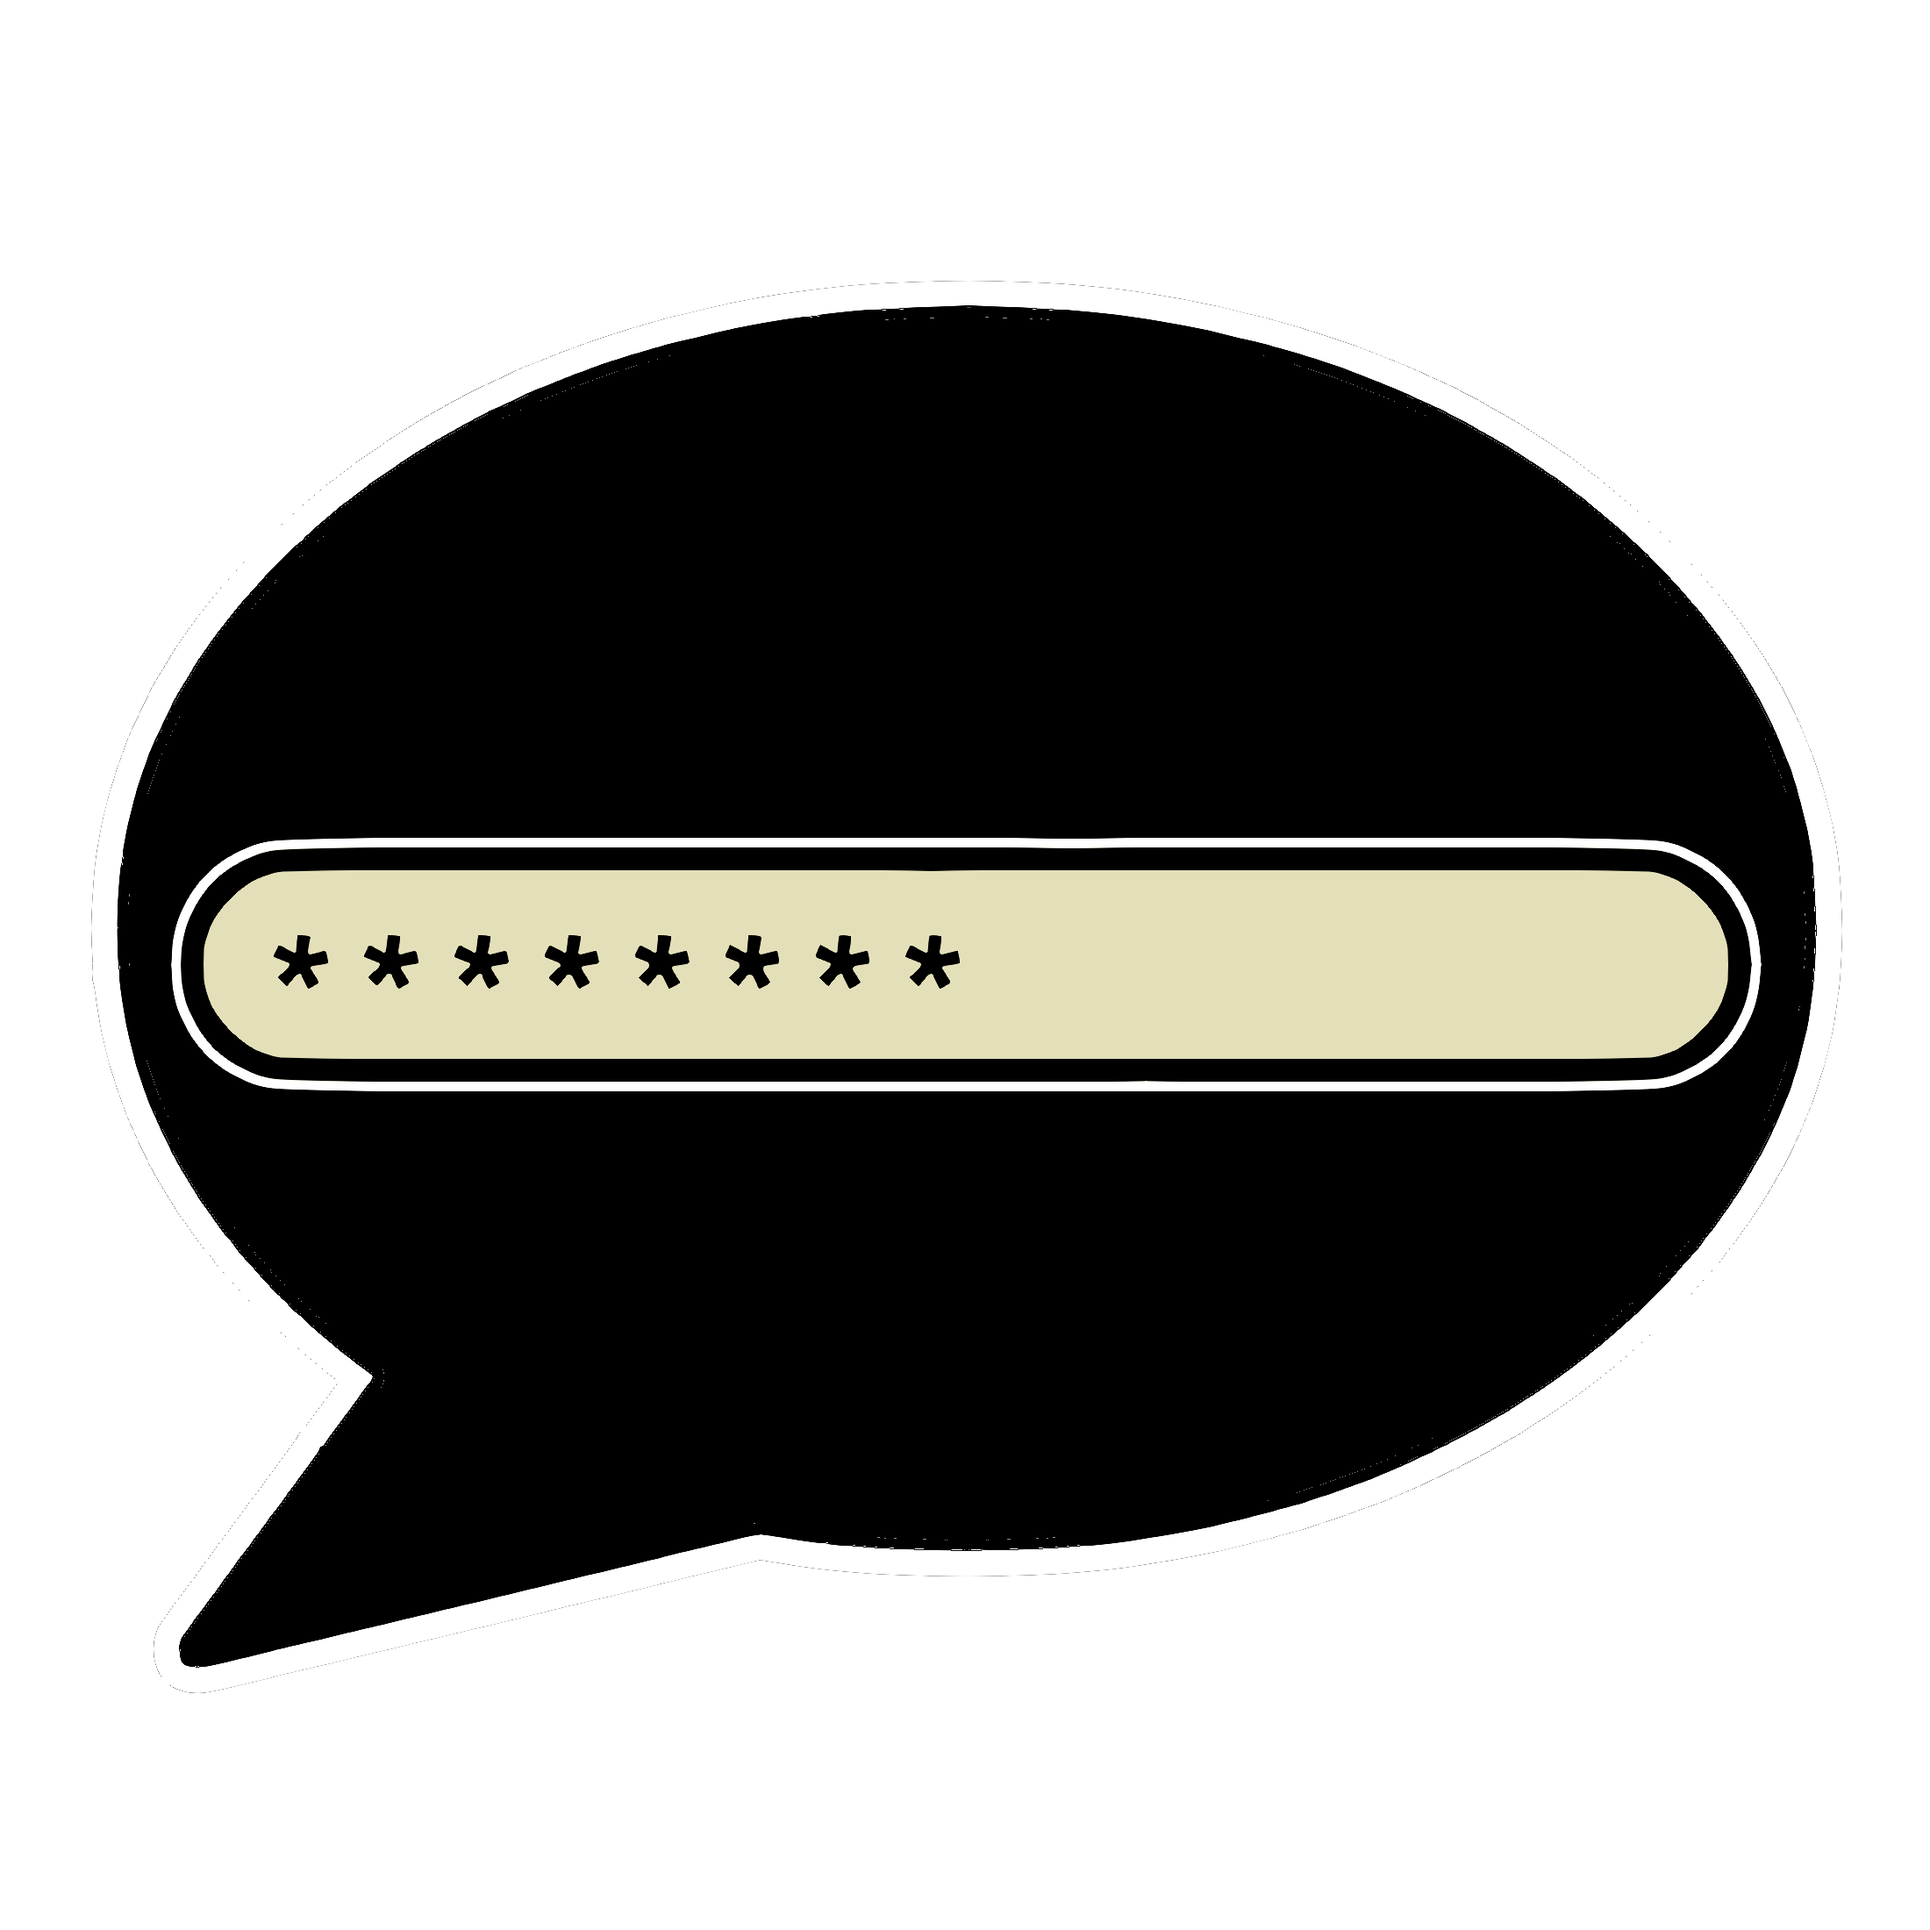
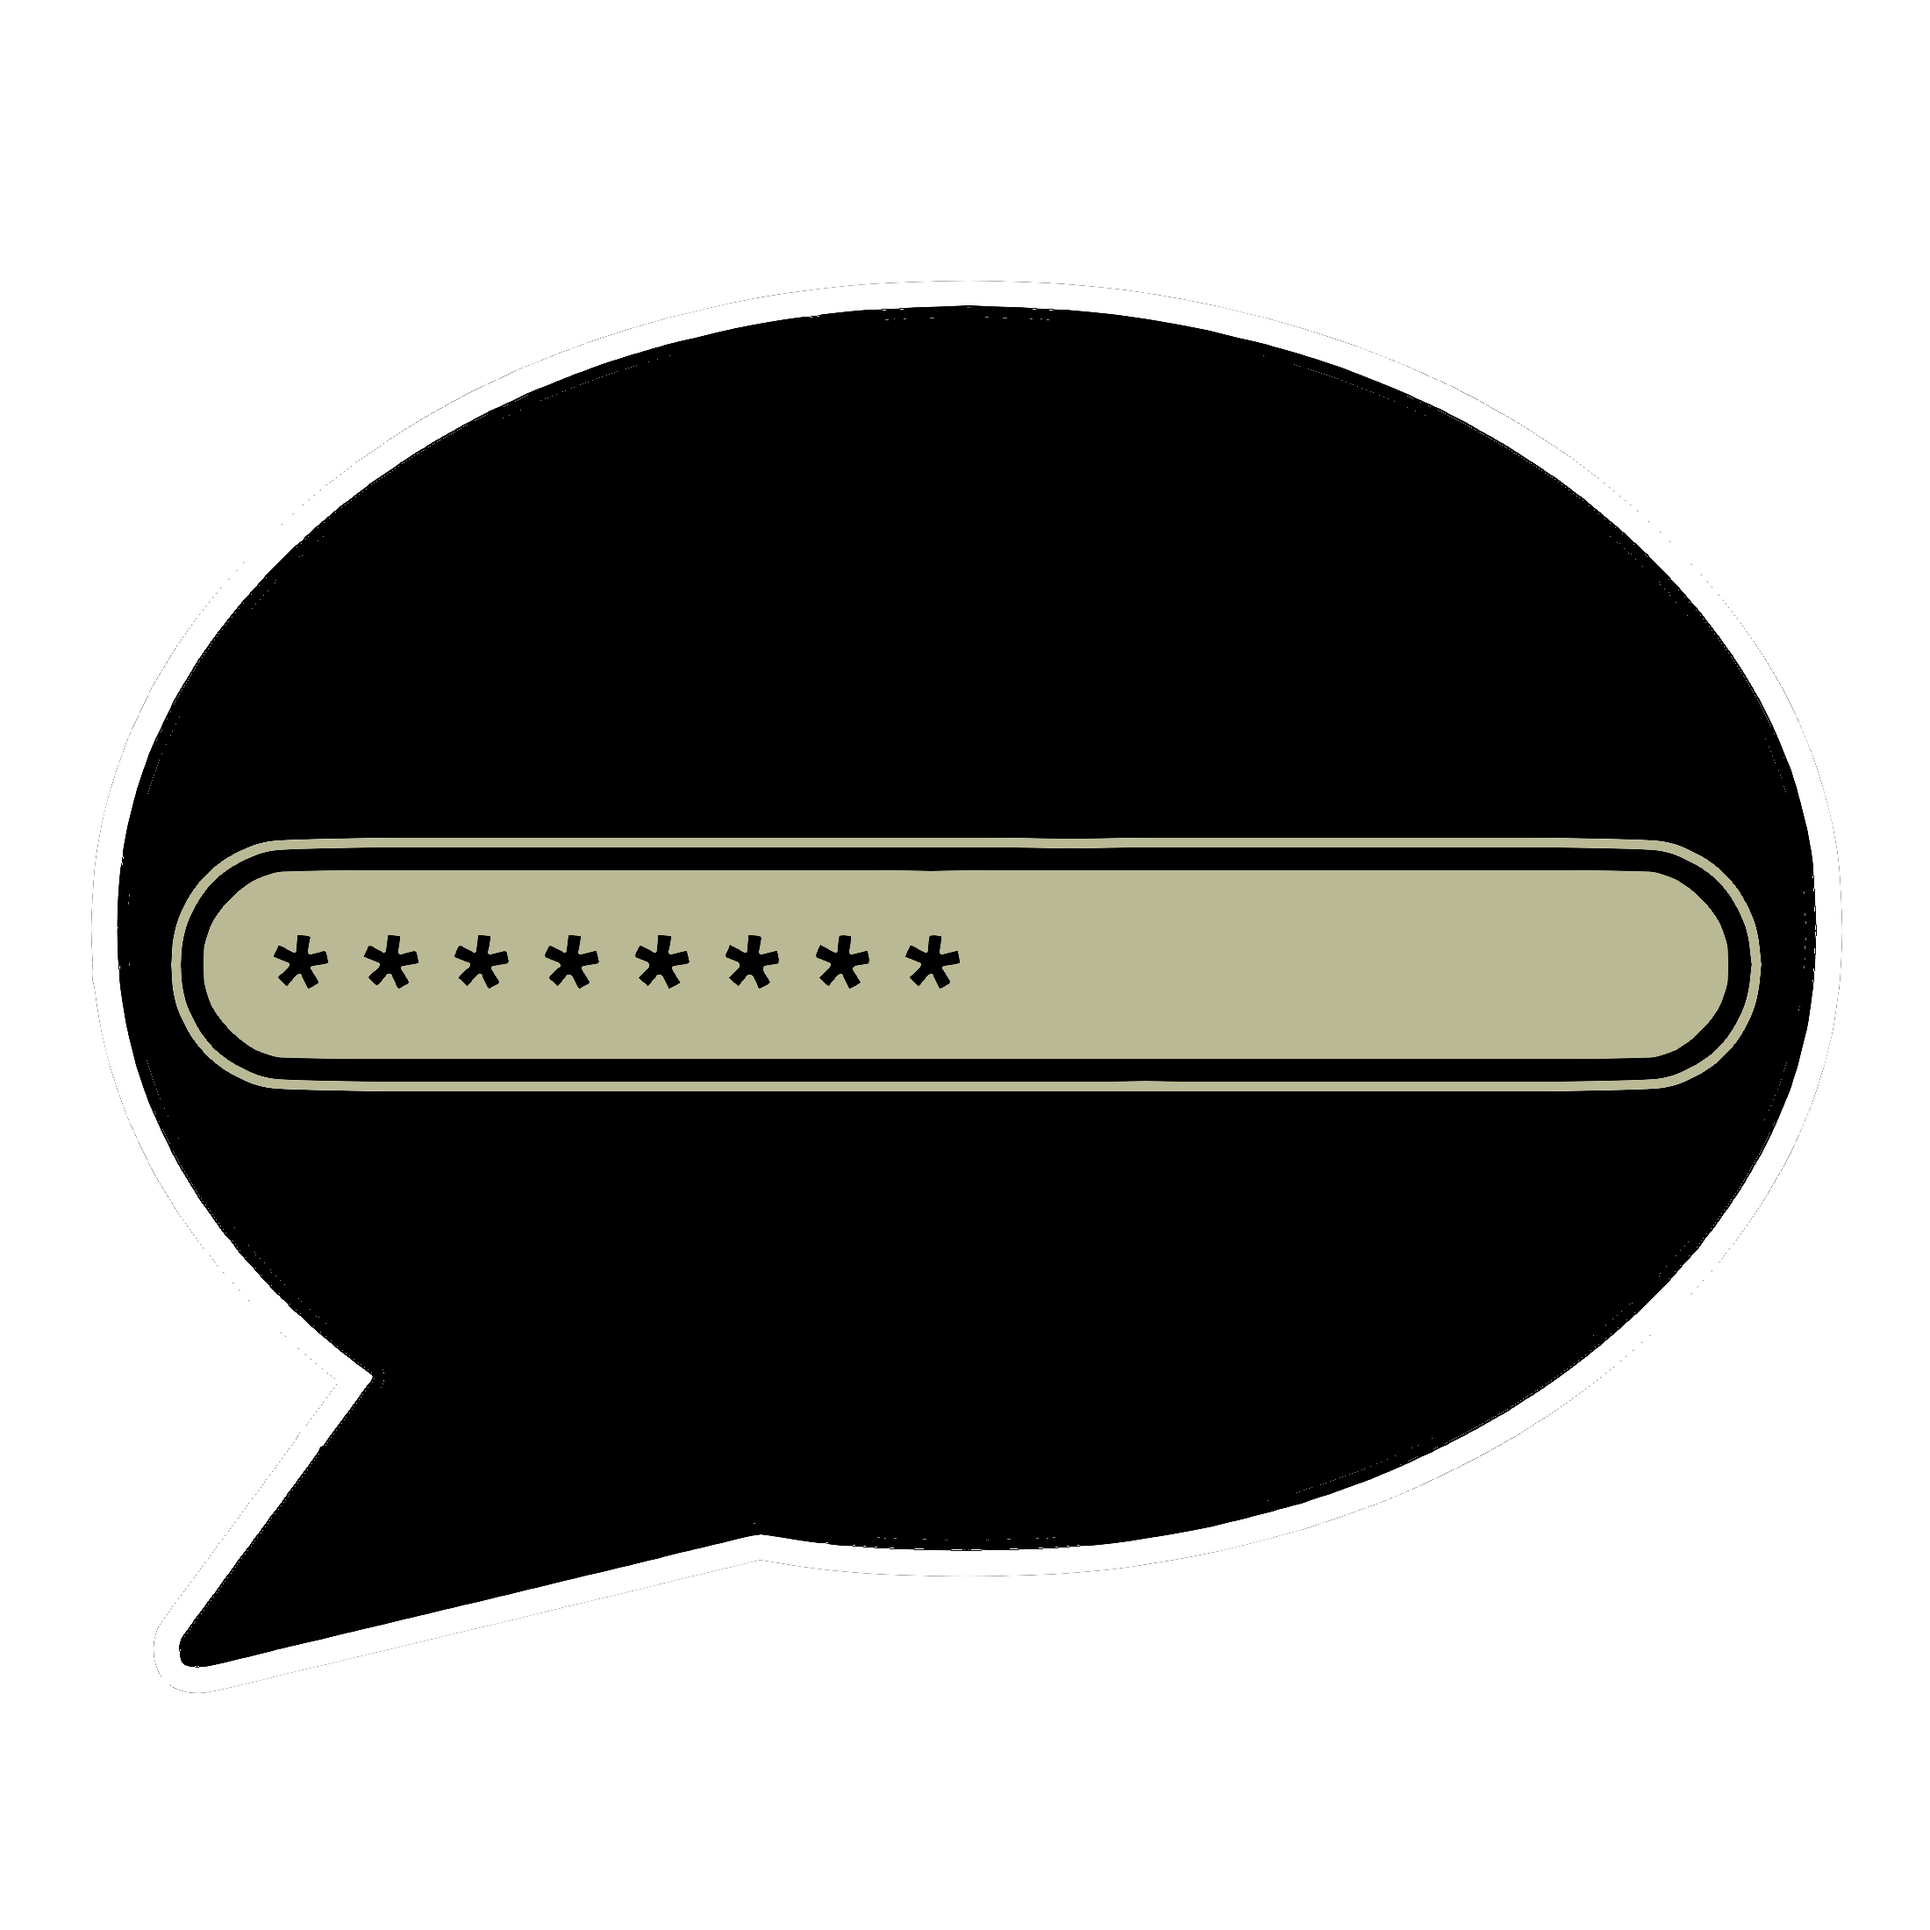
fost2

Changed region(s): [[0.0927, 0.4327, 0.9273, 0.5873]]

diff --git a/docs/index.html b/docs/index.html
@@ -19,7 +19,7 @@ body {
   font-family: 'futura';
 }
 a {
-  color: #E3E0B9;
+  color: #b9b995;
   text-decoration: none;
   transition-duration: .5s;
 }
@@ -214,7 +214,7 @@ audio {
   background-position: center center;
   background-size: contain;
   border: double 5px #000000;
-  background-color: #E3E0B9;
+  background-color: #b9b995;
 }
 /* PasswordUnlockBar */
 .PasswordUnlockBar {
